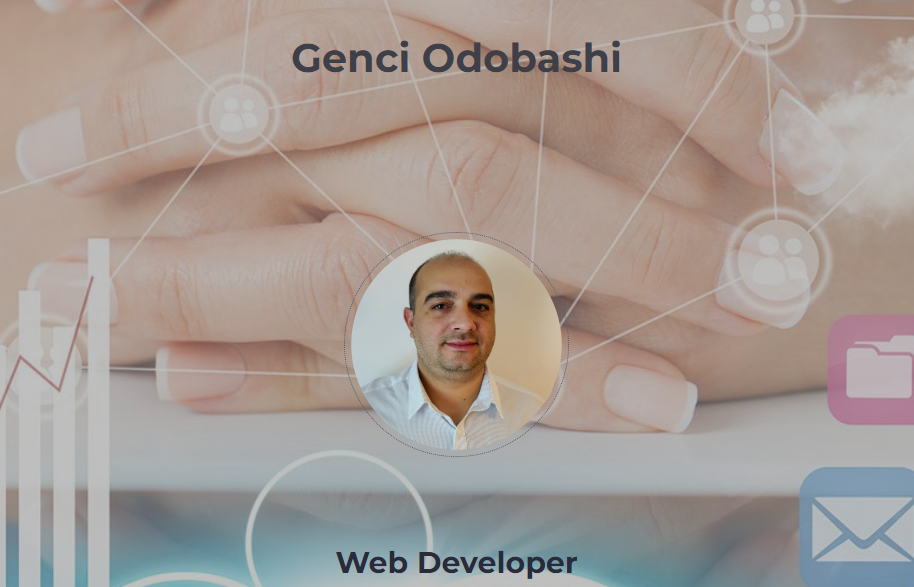
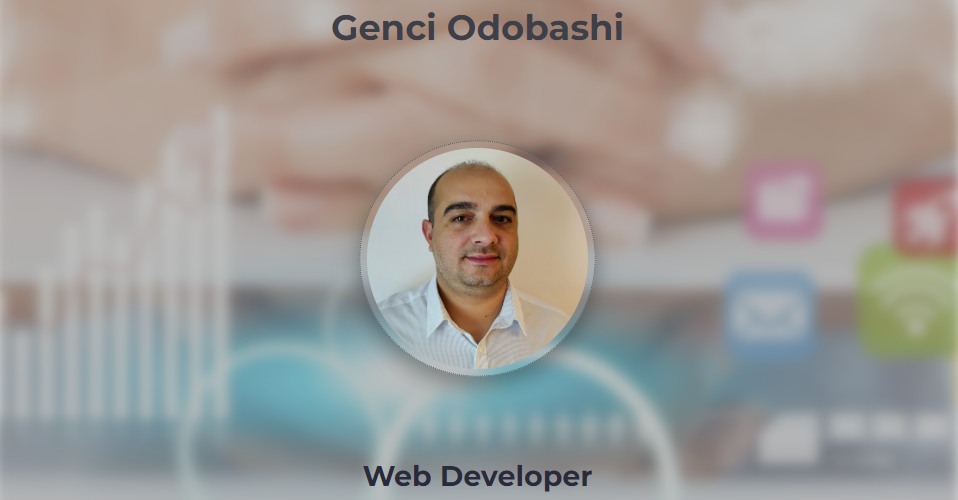
edit html and css complete

diff --git a/index.html b/index.html
@@ -170,7 +170,7 @@
     </section>
 
 
-    <section class="container languages">
+    <section style="width: 80%;" class="container languages">
 
       <h3 style="padding-top: 30px;">Languages</h3>
 
@@ -264,7 +264,16 @@
             <a href="https://odobashigenci.github.io/Urban-Octo-Telegram/urban-octo-telegram/"><img
                 class="projectImage img-fluid" src="Assets\Photo\search-engine-optimization.jpg" alt="Urban Ocot Screenshot"></a>
           </div>
+          <div class="items carousel-item">
+            <div class="">
+              <h2 class="project">Under construction</h2>
+            </div>
+            <img class="projectImage img-fluid" src="Assets\Photo\Under-Construction-Sign.png" alt="Under construction image"></a>
+          </div>
+        
         </div>
+
+        
 
 
         <button id="arrow" class="carousel-control-prev" type="button" data-bs-target="#carouselExampleCaptions"
@@ -294,6 +303,11 @@
         <h5 style="padding: 10px;">2021-2022 | Udemy Certificate</h5>
         <h4> <a href="https://www.udemy.com/course/the-complete-web-development-bootcamp/">The Complete 2023 Web
             Development Bootcamp</a> | By Dr. Angela Yu</h4>
+
+            <div style="margin-top: 60px;">
+              <h5 style="padding: 10px;">2023 | In Progress</h5>
+              <h4> <a href="https://bootcamp.uconn.edu/coding/">Coding Bootcamp</a> | UCONN & edX</h4>
+            </div>
       </div>
     </section>
 
@@ -329,11 +343,11 @@
     </div>
   </section>
 
-  <div id="closing">
-    <a href="https://www.linkedin.com/in/genci-odobashi-692169149/"><i class="fa-brands fa-linkedin fa-2x"></i></a>
-    <a href="https://www.facebook.com/profile.php?id=100006739694721"><i
-        class="fa-brands fa-square-facebook fa-2x"></i></a>
-    <p><i class="fa fa-thin fa-copyright"></i> Genci Odobashi</p>
+  <div style="margin: 40px 0;">
+    <a class="closing" href="https://www.linkedin.com/in/genci-odobashi-692169149/"><i class="fa-brands fa-linkedin fa-2x"></i></a>
+    <a class="closing" href="https://www.facebook.com/profile.php?id=100006739694721"><i class="fa-brands fa-square-facebook fa-2x"></i></a>
+    <a class="closing" href="https://github.com/odobashigenci"><i class="fa-brands fa-github fa-2x"></i></a>
+    <p class="closing"><i class="fa fa-thin fa-copyright"></i> Genci Odobashi</p>
   </div>
 
 </footer>

diff --git a/Assets/styles.css b/Assets/styles.css
@@ -2,6 +2,7 @@
 
 body {
   color: #3C4048;
+  background-color: #dfe5eb;
   font-family: "Merriweather";
   font-size: 1.2rem;
   font-weight: bold;
@@ -18,7 +19,7 @@ hr {
   border-style: dotted;
   color: blue;
   margin: 30px auto;
-  width: 3%;
+  width: 5%;
 }
 
 h3 {
@@ -64,7 +65,7 @@ header {
   top: 0;
   width: 100%;
   z-index: -1;
-  filter: contrast(0.5);
+  filter: blur(5px) contrast(0.5);
   overflow: hidden;
 }
 
@@ -197,8 +198,6 @@ form {
   justify-content: center;
 }
 
-
-
 .col {
   border-color: #AEBDCA;
   border-style: solid;
@@ -207,11 +206,6 @@ form {
   flex: 1 0 200px;
   padding: 10px;
   text-align: center;
-}
-
-.languages {
-  
-  width: 80%;
 }
 
 .card-body {
@@ -232,7 +226,7 @@ form {
   color: white;
 }
 
-#more1, #more2, #more3 {
+#more3 {
   display: none;
 }
 
@@ -292,8 +286,9 @@ form {
 
 .contactCard {
   background: #AEBDCA;
+  border-radius: 1%;
   color: white;
-  height: 450px;
+  height: 400px;
   opacity: 0;
   padding: 20px;
   transition: 0.5s ease-out;
@@ -308,20 +303,8 @@ form {
   color: #FFFFFF;
 }
 
-#closing {
-  padding-top: 20px;
-}
-
-.fa-linkedin {
-  color: #476072;
-  padding-bottom: 15px;
-  padding-right: 5px;
-}
-
-.fa-square-facebook {
-  color: #476072;
-  padding-bottom: 15px;
-  padding-left: 5px;
+.closing {
+  padding: 10px;
 }
 
 .fa-linkedin:hover {
@@ -331,3 +314,8 @@ form {
 .fa-square-facebook:hover {
   color: #3b5998;
 }
+
+.fa-github:hover {
+  color: #070707;
+}
+
